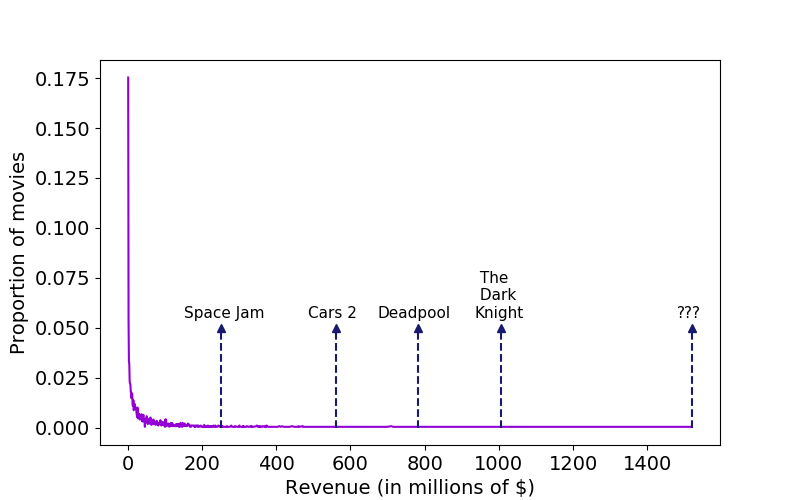
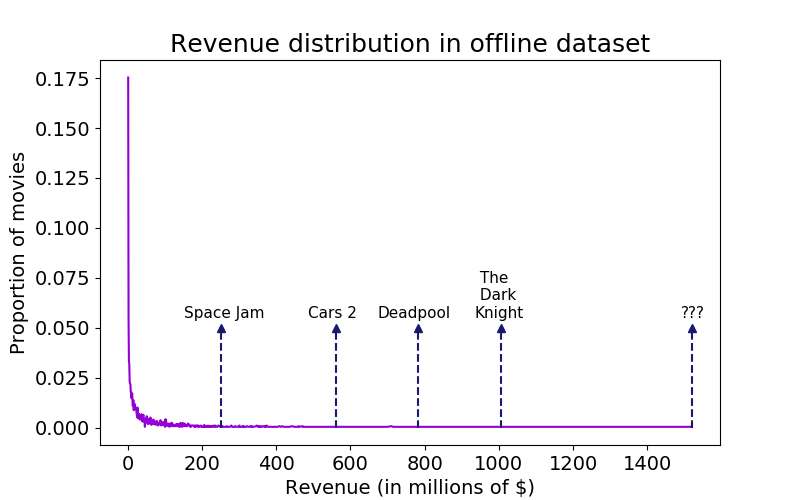
Add title to plot code

Changed region(s): [[0.2188, 0.06, 0.8125, 0.12], [0.8438, 0.6, 0.875, 0.63]]

diff --git a/revenue_distribution.py b/revenue_distribution.py
@@ -32,6 +32,7 @@ if __name__ == "__main__":
     cnts = cnts / np.sum(cnts)
 
     plt.figure(figsize=(8, 5))
+    plt.title("Revenue distribution in offline dataset", fontdict={"fontsize": 18})
     plt.plot(uniqs, cnts, color="darkviolet")
     plt.xlabel("Revenue (in millions of \$)", fontdict={"fontsize": 14})
     plt.ylabel("Proportion of movies", fontdict={"fontsize": 14})
@@ -42,7 +43,7 @@ if __name__ == "__main__":
     landmark_movie("Cars 2", "Cars 2", 75)
     landmark_movie("Deadpool", "Deadpool", 110)
     landmark_movie("The Dark Knight", " The\n Dark\nKnight", 70)
-    landmark_movie("The Avengers", "???", 40)
+    landmark_movie("The Avengers", "???", 30)
 
     plt.savefig("img/revenue_distribution.png")
     # plt.show()
